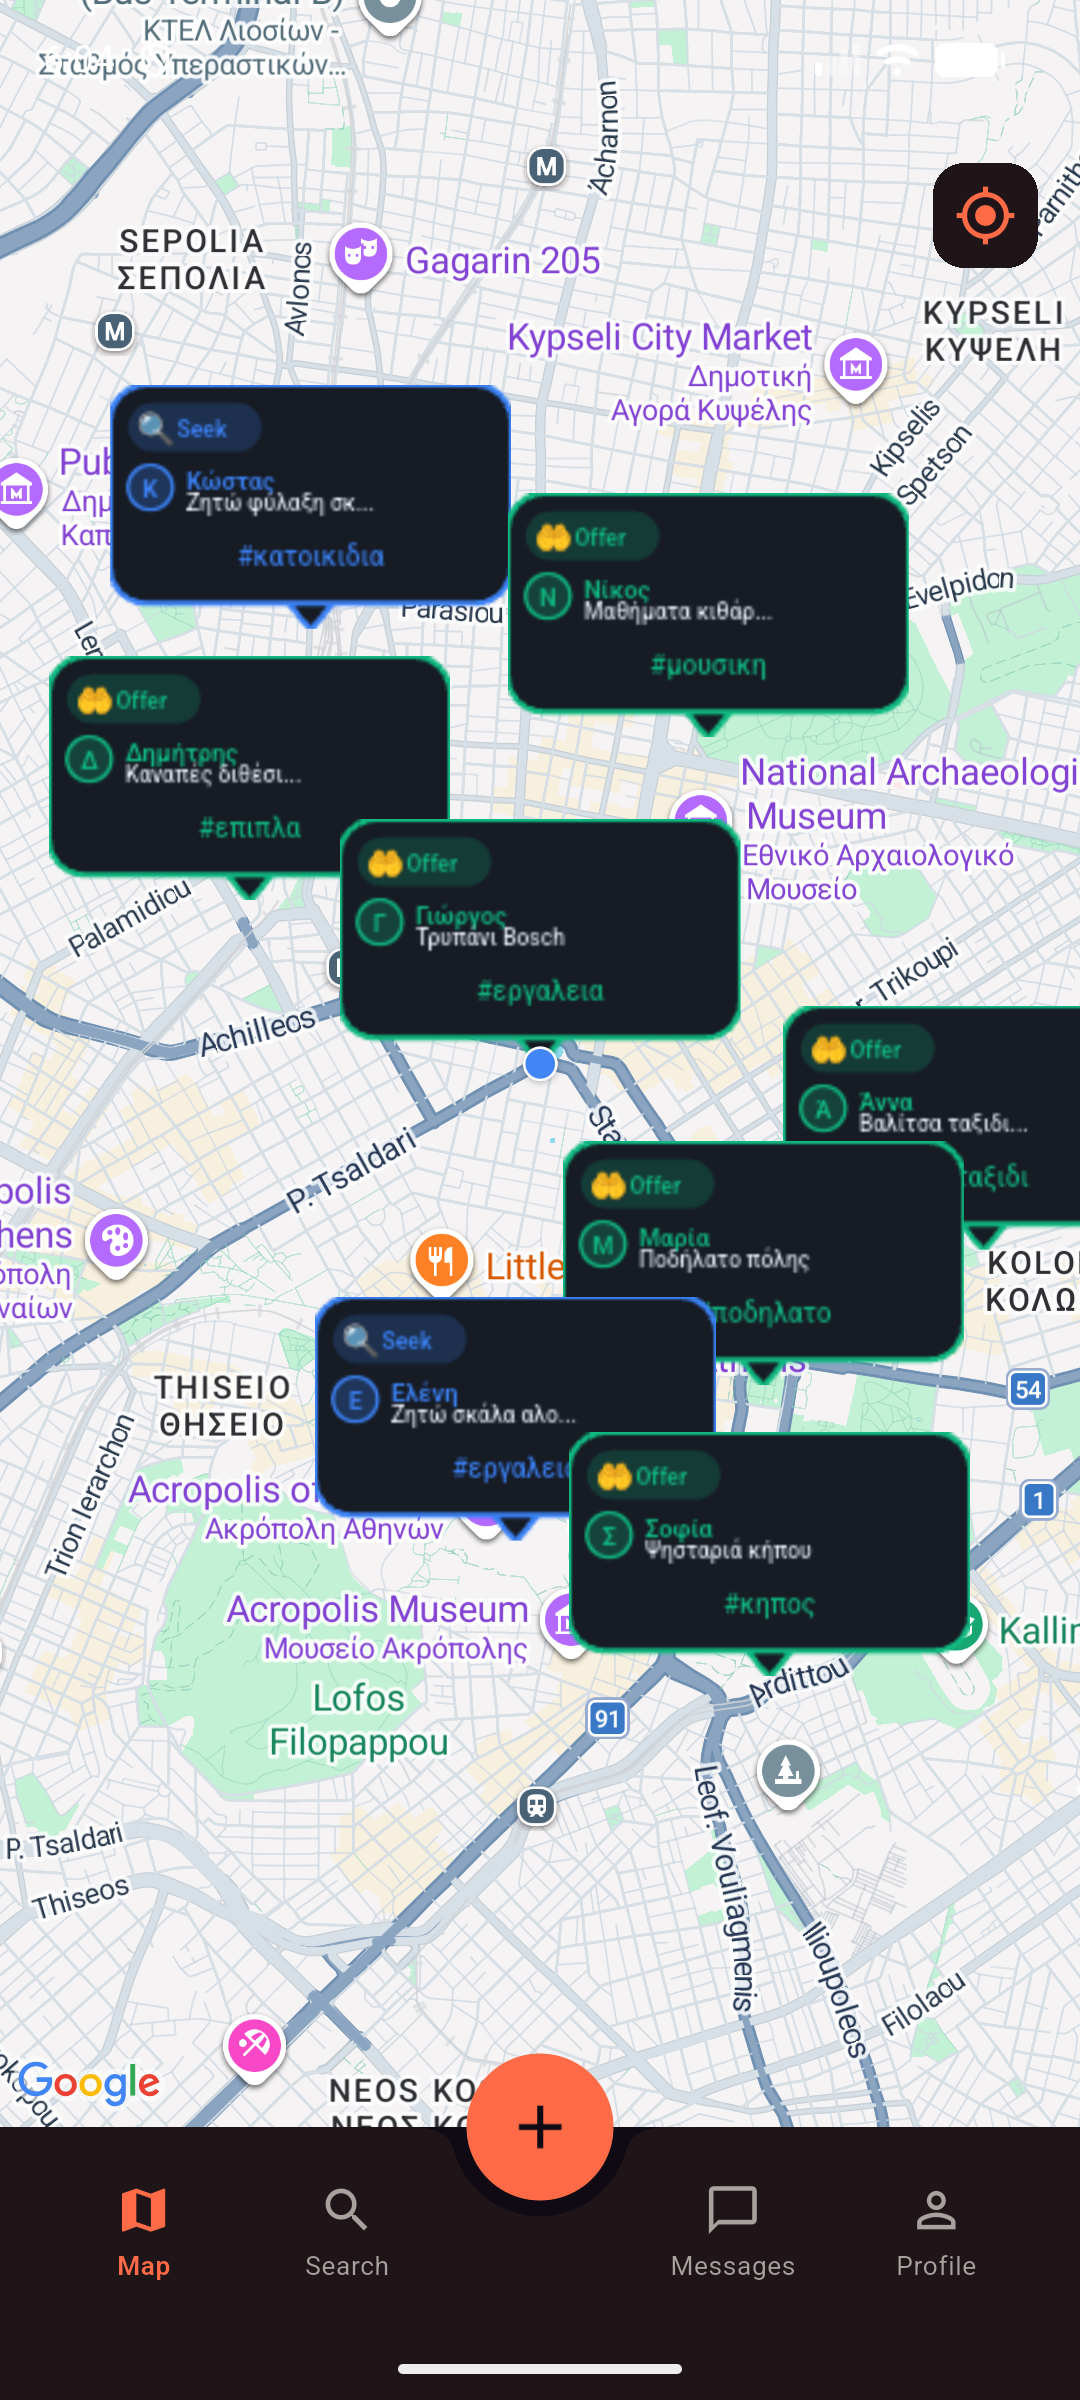
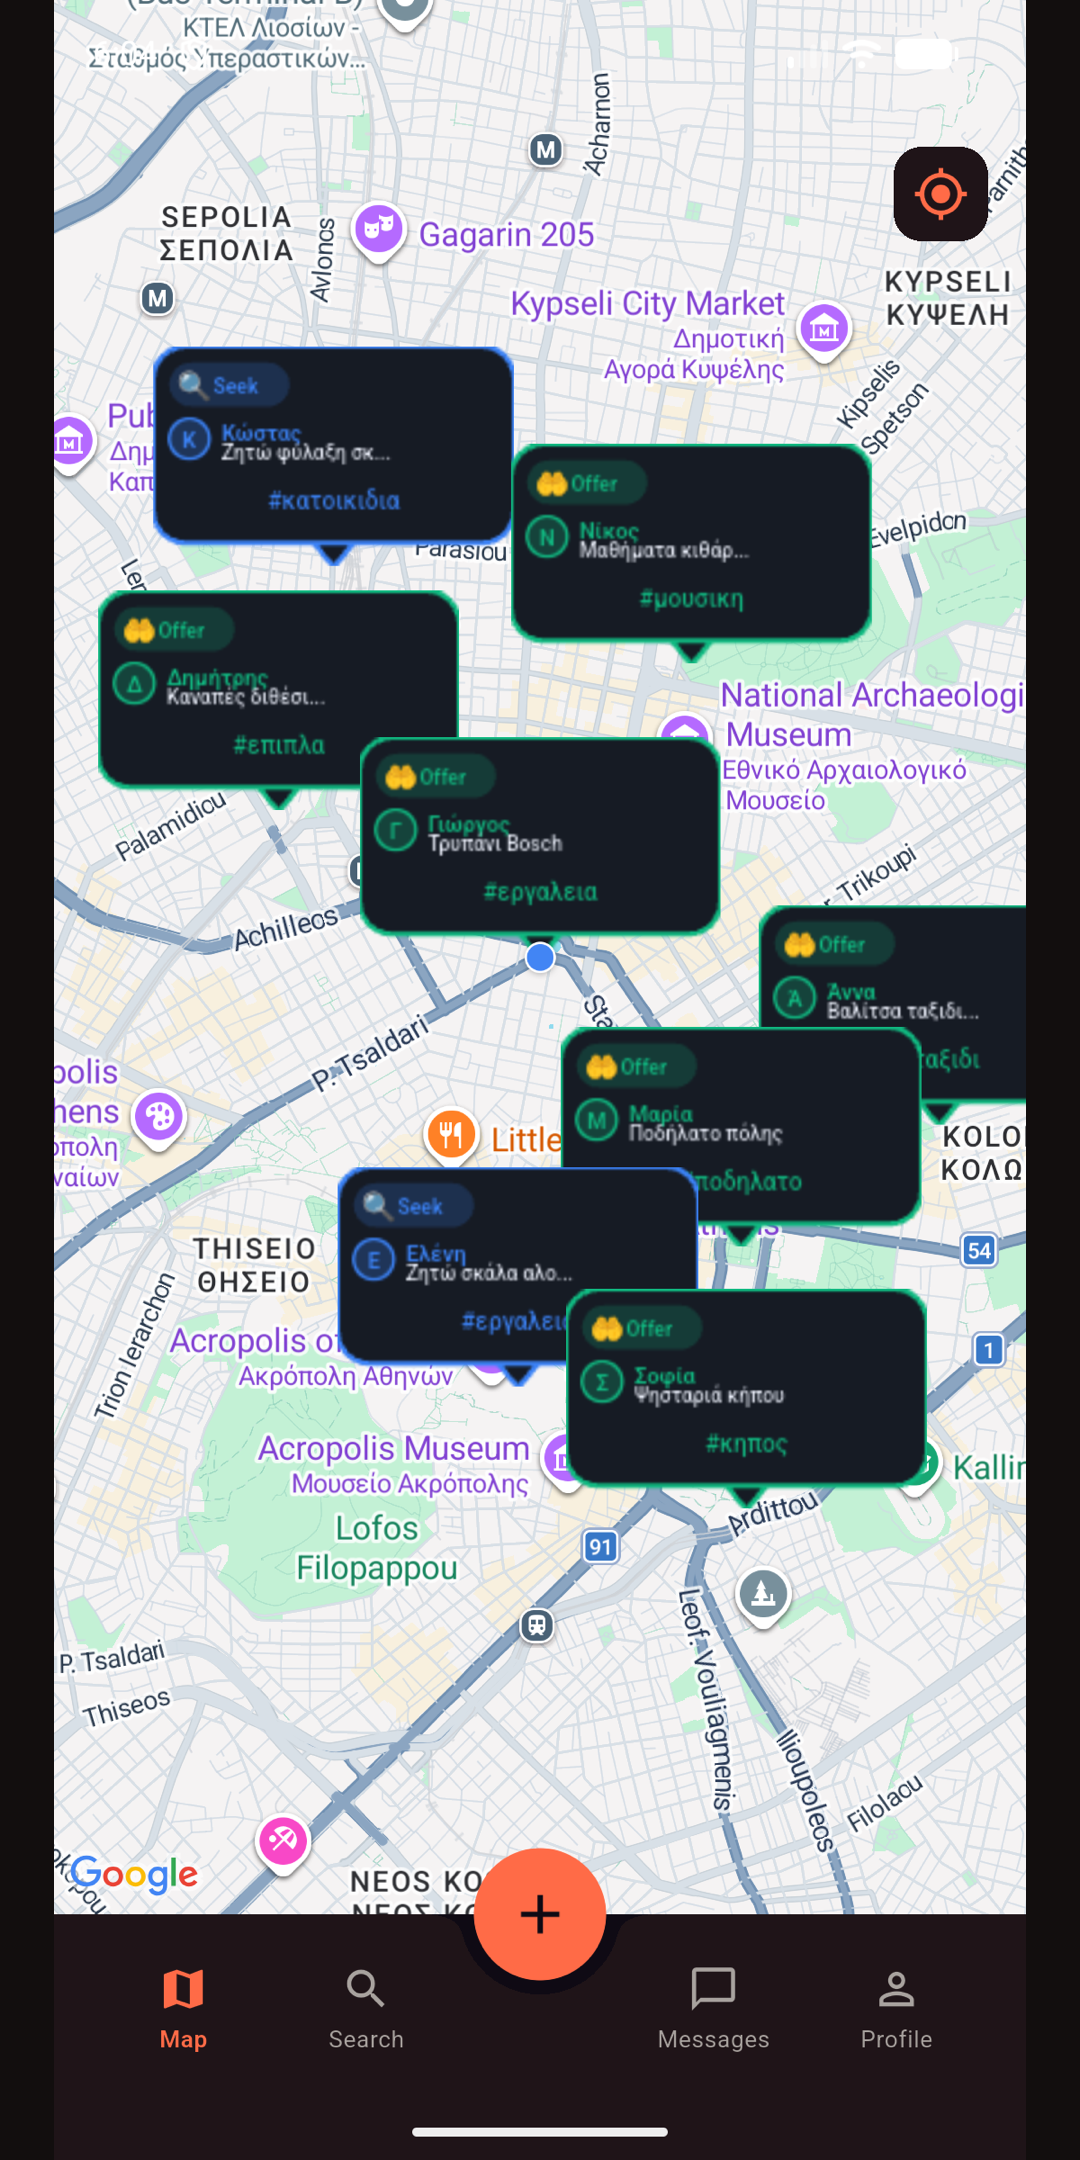
fix(auth): εγγραφή με αριθμητικά email, rollback και μηνύματα σφάλματος
- display_name: email με σκέτους αριθμούς («123456789@x.com») παρήγαγε κενό
  όνομα, οπότε η εγγραφή ήταν ΑΔΥΝΑΤΗ — η φόρμα ζητούσε όνομα χωρίς να υπάρχει
  πεδίο να το συμπληρώσεις. Το fallback δεν περνά πια από _capitalize, που
  κόβει τα ψηφία στο τέλος.
- auth_repository: αν αποτύχει το Firestore write μετά τη δημιουργία του Auth
  χρήστη, ο λογαριασμός διαγράφεται — αλλιώς έμενε ορφανός και το email
  «πιανόταν» χωρίς να μπορεί ο χρήστης να συνδεθεί.
- register_screen: συγκεκριμένα μηνύματα ανά FirebaseAuthException αντί για
  γενικό σφάλμα.
- AndroidManifest: enableOnBackInvokedCallback για predictive back.
- screenshots: αναλογία 1080x2160 (το Play απορρίπτει max/min > 2), με τα
  πρωτότυπα σε screenshots_backup/.

diff --git a/lib/features/auth/data/auth_repository.dart b/lib/features/auth/data/auth_repository.dart
@@ -129,28 +129,49 @@ class AuthRepository {
     }
     final uid = user.uid;
 
-    // ΠΡΟΣΟΧΗ: το email ΔΕΝ μπαίνει στο δημόσιο doc — το διαβάζουν όλοι.
-    await _db.collection('users').doc(uid).set({
-      'uid': uid,
-      'firstName': firstName.trim(),
-      'lastName': lastName.trim(),
-      'isVerified': true,
-      'phoneVerified': false,
-      'rating': 0.0,
-      'ratingCount': 0,
-      'blockedUids': <String>[],
-      'savedListingIds': <String>[],
-      'friends': <String>[],
-      'dealsCount': 0,
-      'isPrivateProfile': false,
-      'showOnlineStatus': true,
-      'ageVerified': true,
-      'termsAcceptedAt': FieldValue.serverTimestamp(),
-      'createdAt': FieldValue.serverTimestamp(),
-    }, SetOptions(merge: true));
+    // ROLLBACK: αν οτιδήποτε αποτύχει ΜΕΤΑ τη δημιουργία του Auth λογαριασμού
+    // (π.χ. πέσει το δίκτυο στο Firestore write), σβήνουμε τον λογαριασμό.
+    //
+    // Χωρίς αυτό έμενε ΟΡΦΑΝΟΣ χρήστης: το Auth account υπήρχε αλλά χωρίς
+    // users/{uid} doc. Το `authStateChanges` τον θεωρούσε συνδεδεμένο και ο
+    // router τον πήγαινε στον χάρτη· το ProfileGate επιστρέφει `none` όταν
+    // λείπει το doc, άρα ΔΕΝ τον έστελνε ποτέ να συμπληρώσει προφίλ. Ο χρήστης
+    // έμενε με μισοφτιαγμένο λογαριασμό, και η επανεγγραφή έσκαγε με
+    // `email-already-in-use` — αδιέξοδο χωρίς διαγραφή από τον server.
+    try {
+      // ΠΡΟΣΟΧΗ: το email ΔΕΝ μπαίνει στο δημόσιο doc — το διαβάζουν όλοι.
+      await _db.collection('users').doc(uid).set({
+        'uid': uid,
+        'firstName': firstName.trim(),
+        'lastName': lastName.trim(),
+        'isVerified': true,
+        'phoneVerified': false,
+        'rating': 0.0,
+        'ratingCount': 0,
+        'blockedUids': <String>[],
+        'savedListingIds': <String>[],
+        'friends': <String>[],
+        'dealsCount': 0,
+        'isPrivateProfile': false,
+        'showOnlineStatus': true,
+        'ageVerified': true,
+        'termsAcceptedAt': FieldValue.serverTimestamp(),
+        'createdAt': FieldValue.serverTimestamp(),
+      }, SetOptions(merge: true));
 
-    await UserRepository.privateRef(uid)
-        .set({'email': email.trim()}, SetOptions(merge: true));
+      await UserRepository.privateRef(uid)
+          .set({'email': email.trim()}, SetOptions(merge: true));
+    } catch (_) {
+      // Καθάρισε ώστε ο χρήστης να μπορεί να ξαναδοκιμάσει με το ίδιο email.
+      try {
+        await user.delete();
+      } catch (_) {
+        // Αν δεν σβήνεται (π.χ. requires-recent-login), τουλάχιστον αποσύνδεση
+        // ώστε να μη μείνει «μέσα» σε χαλασμένη κατάσταση.
+        await _auth.signOut();
+      }
+      rethrow;
+    }
 
     try {
       await user.updateDisplayName(

diff --git a/lib/features/auth/presentation/register_screen.dart b/lib/features/auth/presentation/register_screen.dart
@@ -1,4 +1,5 @@
 import 'package:easy_localization/easy_localization.dart';
+import 'package:firebase_auth/firebase_auth.dart';
 import 'package:flutter/material.dart';
 import 'package:flutter/gestures.dart';
 import 'package:flutter_riverpod/flutter_riverpod.dart';
@@ -96,6 +97,28 @@ class _RegisterScreenState extends ConsumerState<RegisterScreen> {
             lastName: lastName,
           );
       if (mounted) context.go('/map');
+    } on FirebaseAuthException catch (e) {
+      // Συγκεκριμένα μηνύματα αντί για ένα γενικό «κάτι πήγε στραβά». Χωρίς
+      // αυτά, ο χρήστης (ή ο reviewer του Play) που δοκιμάζει ξανά το ίδιο email
+      // έβλεπε αόριστο σφάλμα και δεν καταλάβαινε ότι πρέπει να συνδεθεί.
+      setState(() {
+        switch (e.code) {
+          case 'email-already-in-use':
+            _error = 'reg.emailInUse'.tr();
+          case 'invalid-email':
+            _error = 'reg.giveValidEmail'.tr();
+          case 'weak-password':
+            _error = 'reg.weakPassword'.tr();
+          case 'network-request-failed':
+            _error = 'common.noConnection'.tr();
+          case 'too-many-requests':
+            _error = 'authx.tooManyAttempts'.tr();
+          case 'operation-not-allowed':
+            _error = 'reg.signupDisabled'.tr();
+          default:
+            _error = AppStrings.errorGeneric;
+        }
+      });
     } catch (e) {
       setState(() => _error = AppStrings.errorGeneric);
     } finally {

diff --git a/lib/core/utils/display_name.dart b/lib/core/utils/display_name.dart
@@ -28,7 +28,18 @@ class DisplayName {
         .map(_capitalize)
         .toList();
 
-    if (words.isEmpty) return ('', '');
+    // FALLBACK: αν μετά το φιλτράρισμα δεν έμεινε τίποτα (π.χ. «123456@gmail.com»,
+    // «007@x.com»), χρησιμοποίησε το τοπικό μέρος ΩΣ ΕΧΕΙ.
+    //
+    // Χωρίς αυτό, η φόρμα εγγραφής —που ΔΕΝ έχει πεδία ονόματος και παράγει το
+    // όνομα από το email— έβγαζε «συμπλήρωσε το όνομά σου» χωρίς να υπάρχει πού
+    // να το συμπληρώσεις: ο χρήστης ΔΕΝ μπορούσε ΠΟΤΕ να εγγραφεί με τέτοιο email.
+    // ΠΡΟΣΟΧΗ: ΔΕΝ χρησιμοποιούμε το _capitalize εδώ — αυτό κόβει τα ψηφία στο
+    // τέλος («giorgos90» → «Giorgos»), οπότε για σκέτο «123456789» θα επέστρεφε
+    // κενό και θα ξαναπέφταμε στο ίδιο αδιέξοδο.
+    if (words.isEmpty) {
+      return (local[0].toUpperCase() + local.substring(1), '');
+    }
     return _split(words.join(' '));
   }
 
